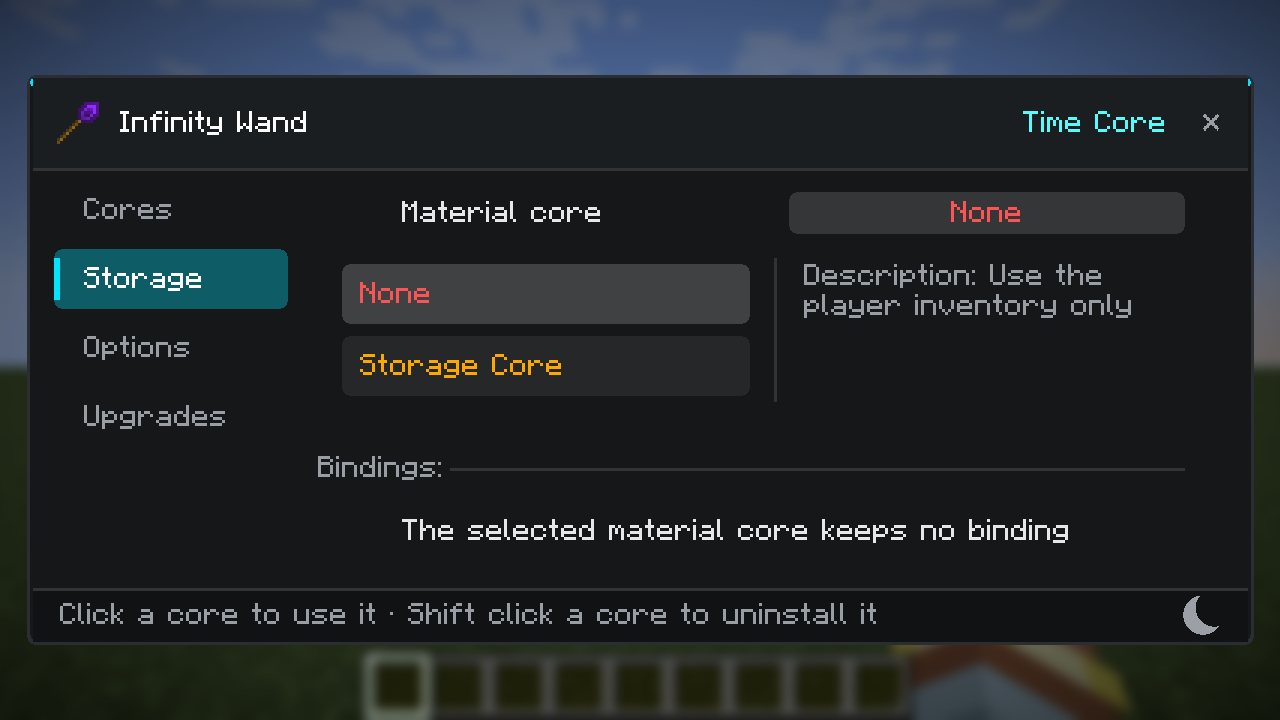
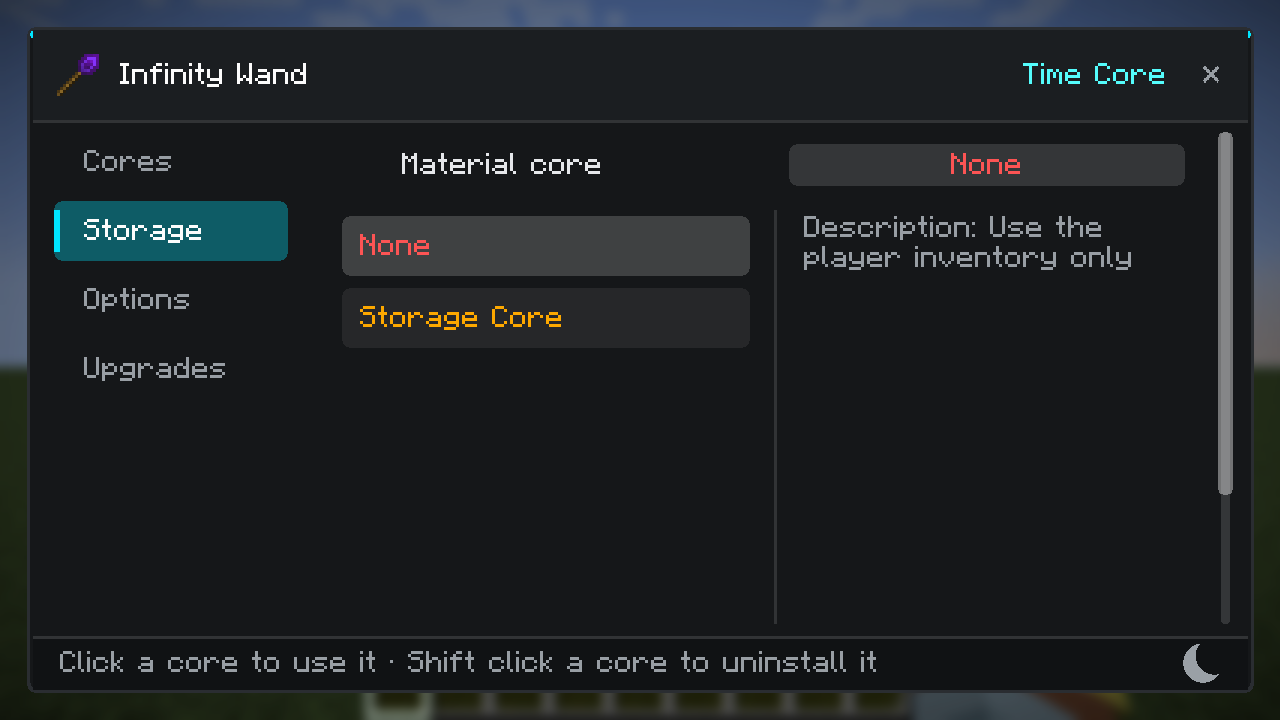
核心页：窗口恢复固定高度，两栏内容铺满窗口（v2.16.39）
- layout() 恢复固定高度（可用高度 4/5，270..MAX_PANEL_HEIGHT），不再按内容收口
- refresh() 先算几何再建行；新增 roomLeft() 把剩余高度交给两栏块
- WandRow.TwoColumn 增加 fill 高度：列表窗口取 max(自然高度, fill)，核心多时才滚动
- 预留 6px 避免整页出现 2px 滚动条；截图更新

diff --git a/src/main/java/dev/polaris_light/constructionwand/client/ScreenWand.java b/src/main/java/dev/polaris_light/constructionwand/client/ScreenWand.java
@@ -153,22 +153,14 @@ public class ScreenWand extends Screen
 
     private void layout() {
         panelWidth = Math.min(MAX_PANEL_WIDTH, Math.max(220, width - 20));
-        applyPanelHeight(contentHeight);
-    }
 
-    /**
-     * Sizes the window around what the page needs, so a short page does not sit in a window with an empty
-     * bottom half. A long page grows to the tallest window and scrolls inside it.
-     *
-     * @param needed height the rows of the page take, in pixels
-     */
-    private void applyPanelHeight(int needed) {
+        // The window keeps one height, so switching pages does not make it jump: the pages are laid out to
+        // fill it instead, and a page that needs more room scrolls.
         int rail = Tab.values().length * (TAB_HEIGHT + TAB_GAP) - TAB_GAP;
         int smallest = HEADER_HEIGHT + FOOTER_HEIGHT + 8 + rail + 4;
         int available = Math.max(smallest, height - 20);
-
-        int wanted = HEADER_HEIGHT + FOOTER_HEIGHT + 8 + Math.max(rail + 4, needed + 4);
-        panelHeight = Math.min(Math.min(MAX_PANEL_HEIGHT, Math.max(180, wanted)), available);
+        int wanted = Math.max(270, (int) (available * 0.8F));
+        panelHeight = Math.min(Math.min(MAX_PANEL_HEIGHT, wanted), available);
 
         panelX = (width - panelWidth) / 2;
         panelY = (height - panelHeight) / 2;
@@ -186,17 +178,15 @@ public class ScreenWand extends Screen
      */
     private void refresh() {
         rows.clear();
+        // The geometry comes first: a page may fill the room it has left, which it has to know about.
+        layout();
         switch(tab) {
             case CORES -> buildCores();
             case OPTIONS -> buildOptions();
             case UPGRADES -> buildUpgrades();
             case STORAGE -> buildStorage();
         }
-        layout();
         layoutRows();
-        int before = panelHeight;
-        applyPanelHeight(contentHeight);
-        if(panelHeight != before) layoutRows();
     }
 
     private void layoutRows() {
@@ -229,9 +219,6 @@ public class ScreenWand extends Screen
         renderThemeButton(graphics, mouseX, mouseY);
 
         layoutRows();
-        int before = panelHeight;
-        applyPanelHeight(contentHeight);
-        if(panelHeight != before) layoutRows();
         boolean overContent = overContent(mouseX, mouseY);
         int rowMouseX = overContent ? mouseX : -1;
         int rowMouseY = overContent ? mouseY : -1;
@@ -442,7 +429,7 @@ public class ScreenWand extends Screen
         // through a value box needed as many clicks as the wanted core was far away in the order, which
         // stops working once a wand carries a handful of cores.
         rows.add(selectedCoreRow(text("gui.core.behaviour"), wandOptions.cores));
-        rows.add(corePicker(wandOptions.cores));
+        rows.add(corePicker(wandOptions.cores, roomLeft(0)));
     }
 
     /**
@@ -451,7 +438,7 @@ public class ScreenWand extends Screen
      */
     private void buildStorage() {
         rows.add(selectedCoreRow(text("gui.core.material"), wandOptions.materialCores));
-        rows.add(corePicker(wandOptions.materialCores));
+        rows.add(corePicker(wandOptions.materialCores, roomLeft(0)));
         buildBindings();
     }
 
@@ -469,14 +456,26 @@ public class ScreenWand extends Screen
                 });
     }
 
-    private WandRow corePicker(WandUpgradesSelectable<IWandCore> option) {
+    /**
+     * @return the height the page has left for a block that fills it, minus a gap above it
+     */
+    private int roomLeft(int reserved) {
+        int used = reserved;
+        for(WandRow row : rows) {
+            used += row.height() + ROW_GAP;
+        }
+        // A few pixels are kept back: an exact fit would leave the page scrollbar showing for two pixels.
+        return Math.max(WandRow.ROW_HEIGHT, contentHeightPixels - used - ROW_GAP - 6);
+    }
+
+    private WandRow corePicker(WandUpgradesSelectable<IWandCore> option, int fill) {
         IWandCore selected = option.get();
         List<WandRow.TwoColumn.Entry> entries = new ArrayList<>();
         for(IWandCore core : option.getUpgrades()) {
             entries.add(new WandRow.TwoColumn.Entry(coreName(option, core), core == selected));
         }
         return new WandRow.TwoColumn(entries,
-                text("gui.status.description").copy().append(translate(option.getDescTranslation())),
+                text("gui.status.description").copy().append(translate(option.getDescTranslation())), fill,
                 index -> selectCore(option, option.getUpgrades().get(index)));
     }
 

diff --git a/src/main/java/dev/polaris_light/constructionwand/client/ui/WandRow.java b/src/main/java/dev/polaris_light/constructionwand/client/ui/WandRow.java
@@ -166,13 +166,24 @@ public abstract class WandRow
         private final List<Entry> entries;
         private final Component description;
         private final IntConsumer onSelect;
+        /** How tall the block is asked to be, so a short list still fills the page. */
+        private final int fill;
 
         private int leftScroll;
         private boolean scrolledToSelection;
 
         public TwoColumn(List<Entry> entries, Component description, IntConsumer onSelect) {
+            this(entries, description, 0, onSelect);
+        }
+
+        /**
+         * @param fill minimum height of the block: the list window grows to it, so a wand with a few cores
+         *             still fills the page instead of leaving the room below empty
+         */
+        public TwoColumn(List<Entry> entries, Component description, int fill, IntConsumer onSelect) {
             this.entries = entries;
             this.description = description;
+            this.fill = fill;
             this.onSelect = onSelect;
         }
 
@@ -206,7 +217,10 @@ public abstract class WandRow
 
         private int viewport() {
             int rows = Math.min(entries.size(), VISIBLE_ENTRIES);
-            return Math.max(ENTRY_HEIGHT, rows * ENTRY_HEIGHT + Math.max(0, rows - 1) * ENTRY_GAP);
+            int natural = Math.max(ENTRY_HEIGHT, rows * ENTRY_HEIGHT + Math.max(0, rows - 1) * ENTRY_GAP);
+            // The page hands the block the room it has left; the list window grows to it and scrolls when the
+            // entries need more. A block without a size of its own keeps the natural height.
+            return fill > 0 ? Math.max(natural, fill) : natural;
         }
 
         private int maxScroll() {

diff --git a/README-PLUS.md b/README-PLUS.md
@@ -28,6 +28,17 @@
 - `WandData.writeRoot/removeRoot/update`：同样只对手杖生效，任何漏网调用都写不进去。
 
 实测：手持 60 石头右键方块后 `components={…}` 里**没有** `custom_data`；手杖自己仍正常带 `wand_options`。
+## 核心页：窗口保持高、内容铺满整个窗口（2.16.39）
+
+上一版把窗口按内容收高，结果整个面板变得很扁。改回**固定高度**（`layout()` 里身高逻辑恢复：可用高度的 4/5，夹在 270–`MAX_PANEL_HEIGHT`），
+改由**内容铺满窗口**：
+
+- `refresh()` 先算几何再建行，页面可以知道"还剩多少高度"；
+- 新增 `roomLeft()` = `contentHeightPixels − 已用行高 − 间距 − 6`，传给两栏块（`WandRow.TwoColumn(entries, desc, fill, onSelect)`）；
+- 左栏列表窗口取 `max(自然高度, fill)`，所以核心少时窗口照样铺到底，核心多时才出现自己的滚动条；
+- 多留 6px 余量，避免整页出现 2px 的滚动条；
+- 截图：`docs/wand-screen-cores.png`、`docs/wand-screen-storage.png`。
+
 ## 核心页：描述带「描述：」、窗口按内容收高、核心描述全部重写（2.16.38）
 
 - **右栏改为「描述：<正文>」**：`corePicker` 把 `gui.status.description` 前缀拼在描述前面，和原来核心状态区的格式一致；
